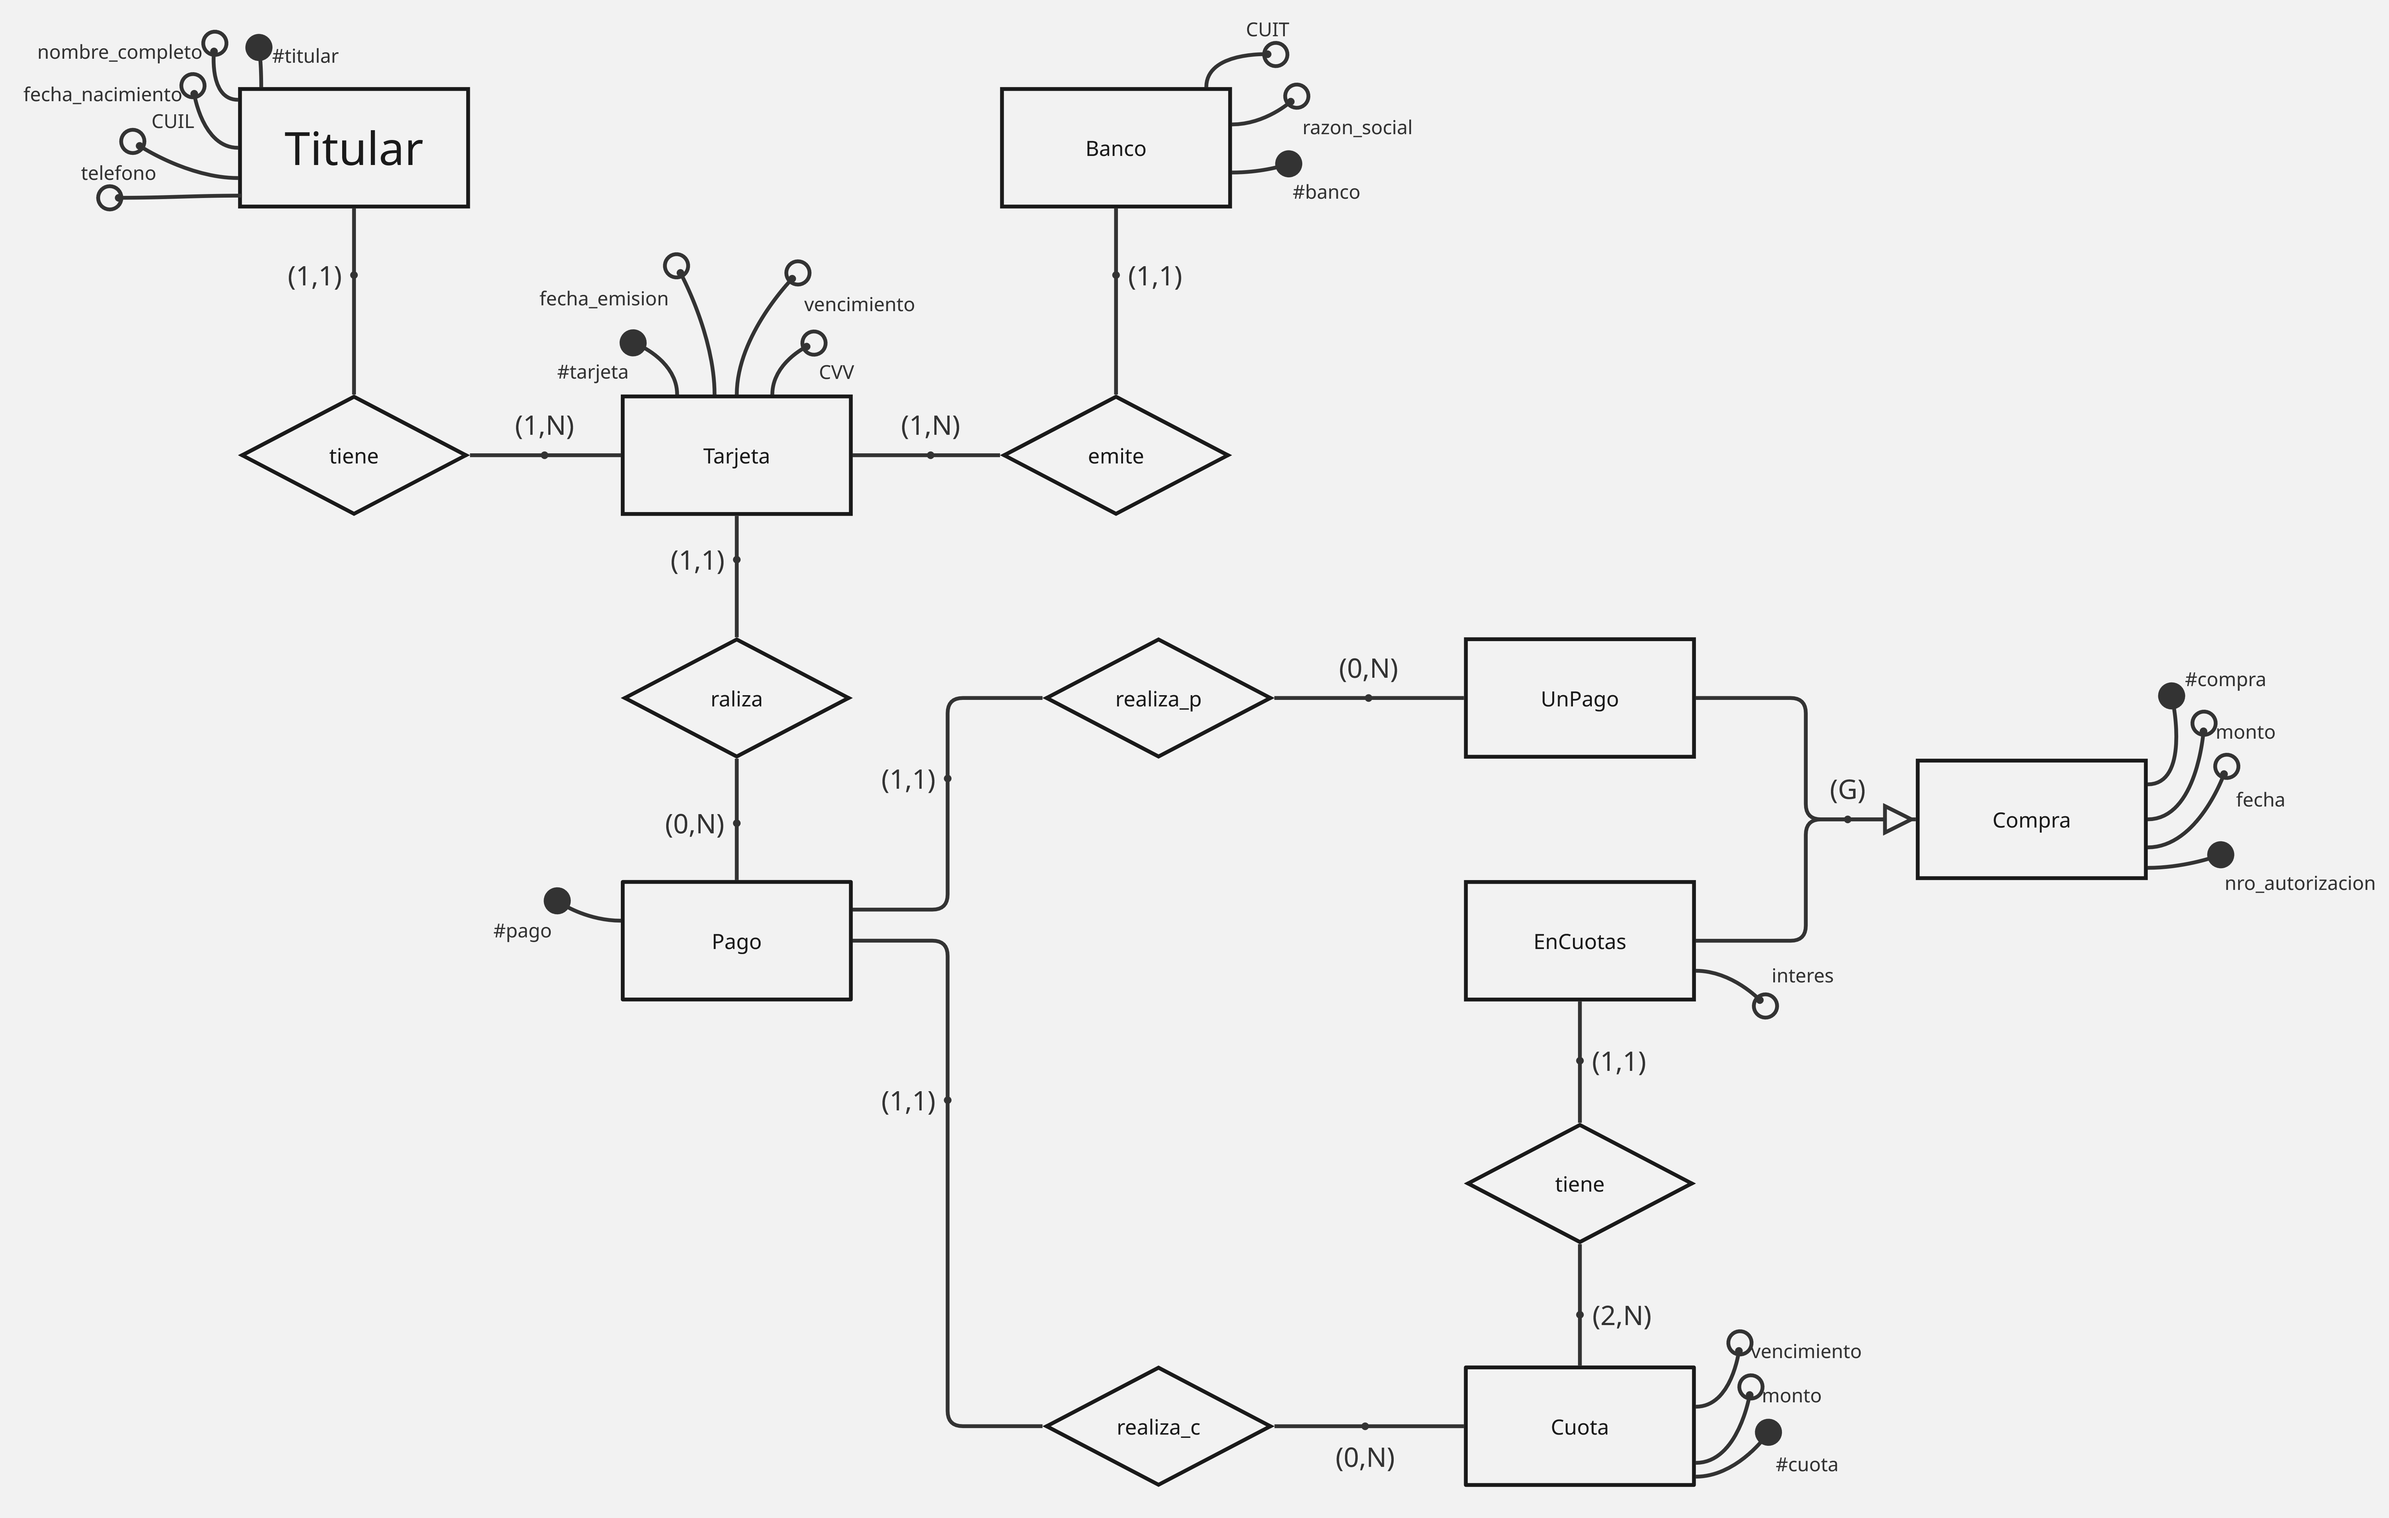
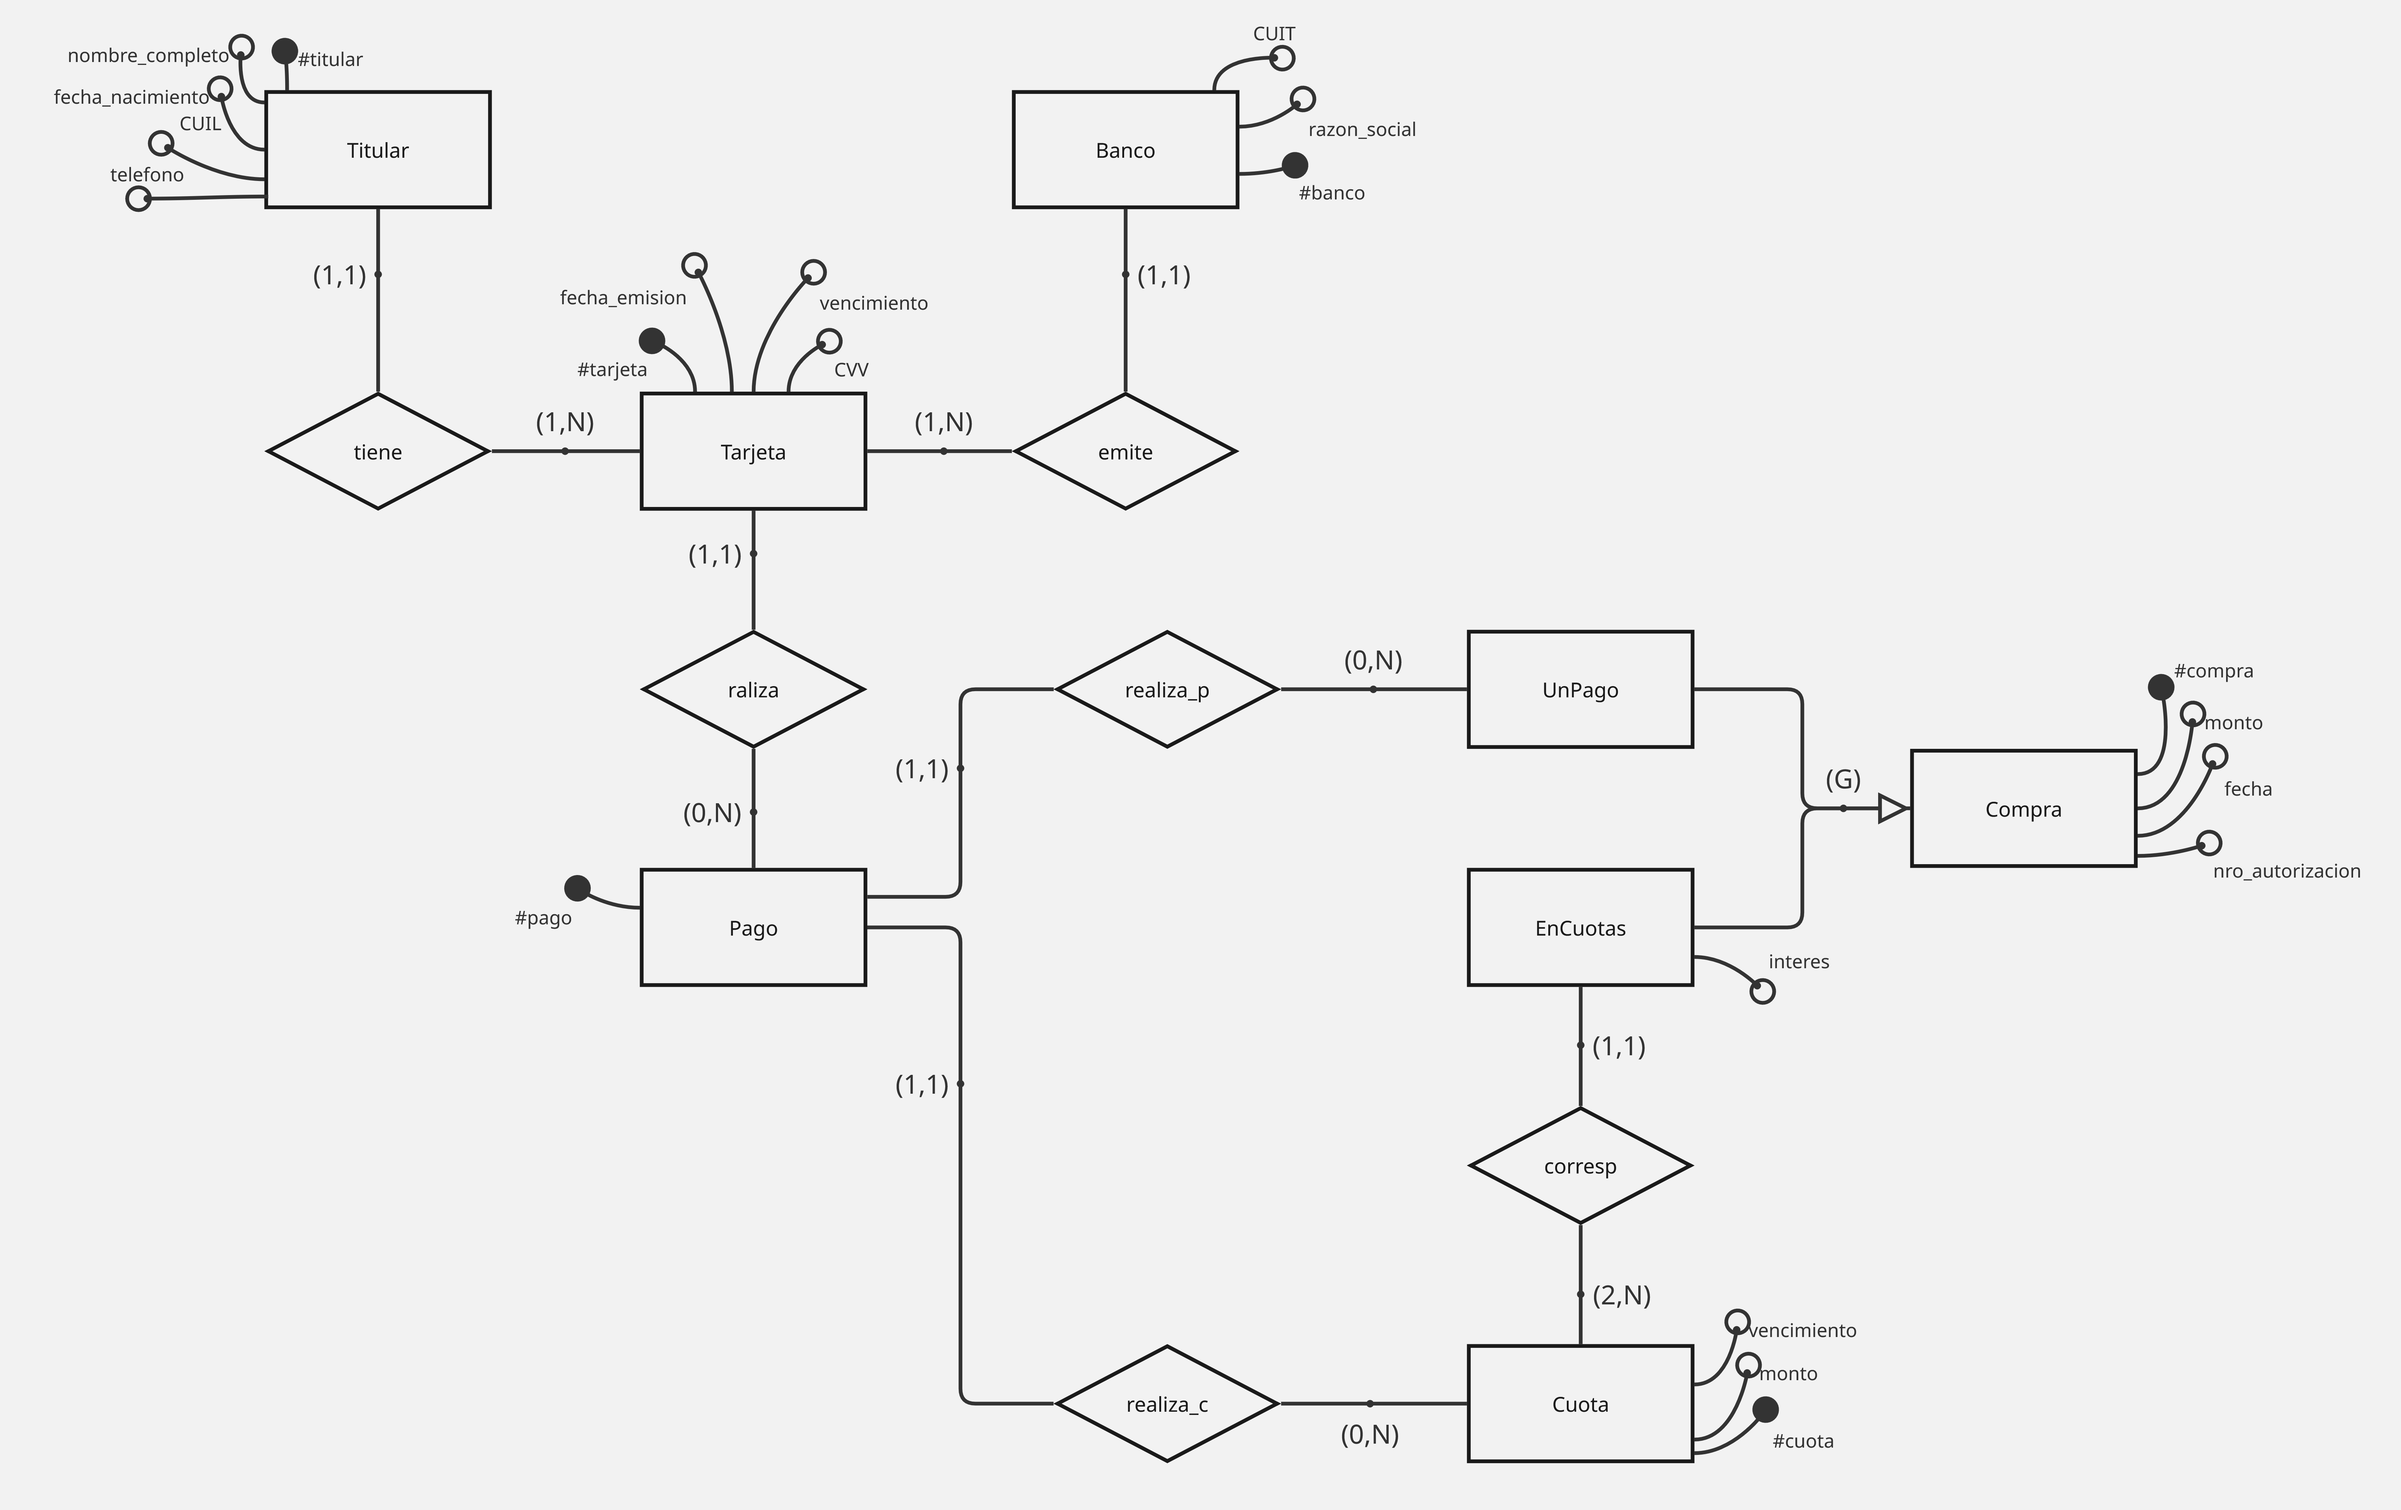
Sin fecha 1, fix modelado y agrego relacional

diff --git a/Tercer_Año/SegundoSemestre/Bases_de_datos_1/Parciales/SF/Sin_fecha_01/relacional.md b/Tercer_Año/SegundoSemestre/Bases_de_datos_1/Parciales/SF/Sin_fecha_01/relacional.md
@@ -1,0 +1,14 @@
+**Titular**(<u>#titular</u>, nombre_completo, fecha_nacimiento, CUIL, telefono)  
+**Tiene**(<u>#titular</u>, #tarjeta)  
+**Tarjeta**(<u>#tarjeta</u>, fecha_emision, vencimiento, CVV)  
+**Emite**(<u>#banco</u>, #tarjeta)  
+**Banco**(<u>#banco</u>, razon_social, CUIT)  
+**Realiza**(<u>#tarjeta</u>, #pago)  
+**Pago**(<u>#pago</u>)  
+**Realiza_p**(<u>#pago</u>, #compra)
+**UnPago**(<u>#compra</u>)    
+**Realiza_c**(<u>#pago</u>, #cuota)
+**Cuota**(<u>#cuota</u>, monto, vencimiento)
+**Corresponde**(<u>#compra</u>, #cuota)      
+**EnCuotas**(<u>#compra</u>, interes)  
+**Compra**(<u>#compra</u>, monto, fecha, nro_autorizacion)  
